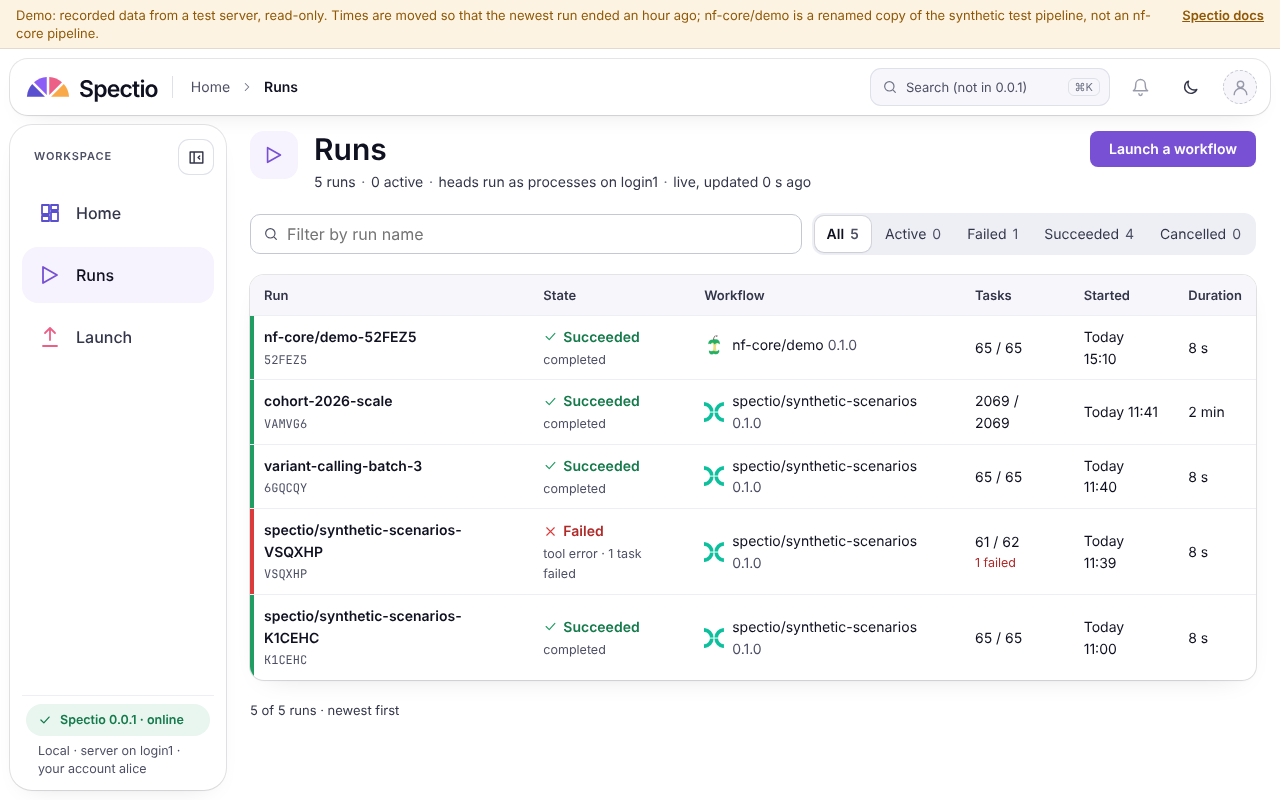
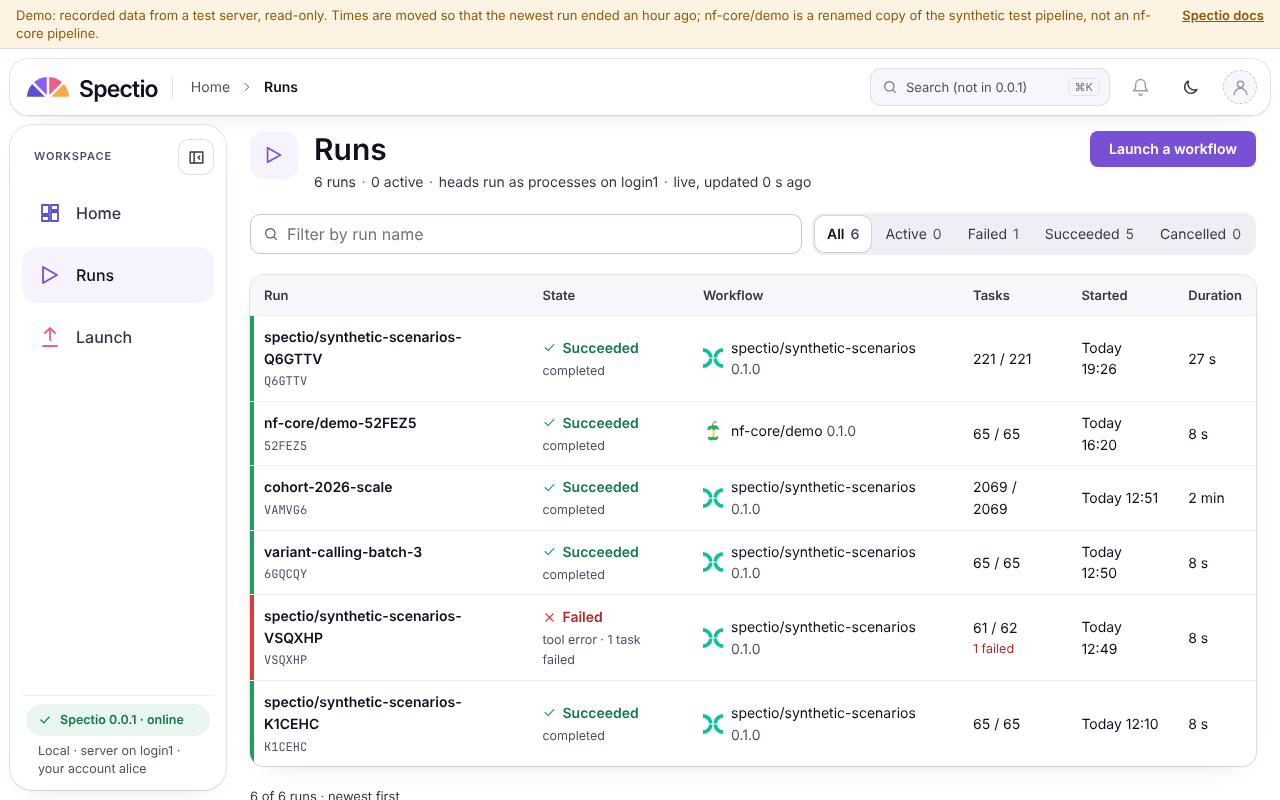
docs(P3-demo): refresh after UI parity D, review round 4, demo-runs retaken
P3-M4's Public demo section gets a dated "Refreshed after UI parity D"
paragraph (the merge, the new recording, the tests and the browser walk);
the review record gets the refresh round; the demo-runs shot is retaken
from the new build (six runs).

Claude-Session: https://claude.ai/code/session_01MF8RxLfMAXBpezLW6Efe78

diff --git a/docs/progress/W5/P3-M4.md b/docs/progress/W5/P3-M4.md
@@ -614,6 +614,31 @@ This list names the files.
 - **Decision log:** [2026-10-31 — a public read-only demo](../../decisions/log.md#2026-10-31-a-public-read-only-demo-of-the-001-screens-at-demo-written-into-dev-env-73-p3-demo).
 - **Docs of this step:** this section, the review record, the dev-env note, the decision-log entry, [inbox #92](../../reviews/inbox.md#92-assumed-what-the-public-demo-leaves-open-before-it-is-published), the `tools/media/README.md` corrections (the byte count, the kernel guard, the shot recipe), the "Try the demo" links in `mkdocs.yml` and `README.md`, the `demo-runs` shot (one `Shot` entry in `tools/media/shots.py`, one manifest entry), and the `p3-demo-static-demo` figure (`tools/diagrams/p3_demo_static_demo.py`, by `diagram-artist`, `6d92a7d`) with its manifest entry.
 
+**Refreshed after UI parity D (2026-10-31).** UI parity D (#112) was written after Thomas clicked through this PR's preview, so the branch was brought up to date and its recording taken again (the step's brief: "Update PR #111 so it merges cleanly onto the current `autopilot/integration` and shows the latest UI").
+
+- **The merge** (`c2a312c`): `origin/autopilot/integration` (`b9e6fbb`) merged into `autopilot/P3-demo-pub`, both sides kept. In `RunDetailPage.tsx` UI parity D's `LogViewer` now scrolls to the newest lines, and the demo keeps Open raw as a `blob:` URL. `shots.py` keeps UI parity D's searched `app-run-logs` and the `demo-runs` shot. `media.yaml`, the decision log and this page keep both entries. Both steps had named their follow-up FU-P3-28; UI parity D's is on `main`, so the demo's is now **FU-P3-29**.
+- **The recording** (`1959ca8`): `web/demo/fixtures.json` taken again with `record_demo.py` from the same demo server. It holds **48 answers, 931 286 bytes** (41 and 773 205 before; the budget is 1.5 MB). It has six runs: the five of the first recording, and UI parity D's `spectio/synthetic-scenarios-Q6GTTV` (221 tasks), launched with `chunks=6`, `scale=2`, `seed=7`, `fail_mode=flaky` and `fail_process=ALIGN`, so the Parameters tab shows values that are not the defaults. The inspections of `synthetic`, `synthetic-smk` and `nf-core-demo` now carry the four parameter groups of the synthetic pipelines' schemas. The hygiene check and the kernel-release cut passed. `test_record_demo.py` passes: 3 tests.
+- **The stub needed no change.** Every request UI parity D sends is a path the stub already filters and pages from the recorded lists: a process's tasks (`?process=…&limit=50`, then the `cursor`), the failed tasks that "Why it failed" looks through, `/runs?limit=50` for Try a test pipeline, and the inspect behind `/launch?location=`. So the recorder still records each list whole, and records no list per process. 10 new Vitest cases pin these requests. 9 are in `stub.test.ts`: some run on small lists made in the test, the others on the committed recording, where every process sheet of every run pages to its process's count. 1 is in `demo.test.tsx`: a hash link `#/launch?location=` loads `synthetic-smk`. One demo screen test was changed: Launch loads `nf-core-demo` with its four groups and still gives the read-only reason, so a pipeline with a schema is now tested (CR-P3DEMO-04 r1 asked for that test; the order of the reasons is still open).
+- **Evidence**, at `1959ca8`, from the worktree:
+
+    ```bash
+    cd web && npx vitest run      # 20 files, 203 tests passed (193 after the merge; 175 + 18)
+    cd web && npx tsc --noEmit    # exit 0
+    npm --prefix web run build    # dist: 6 files, none of the demo (9 needles)
+    npm --prefix web run build:demo   # web/dist-demo; demo chunk 995 kB, Vite's 500 kB warning (CR-P3DEMO-05 r1, open)
+    bash tools/ci/security.sh sast    # Ran 79 rules on 213 files: 0 findings.
+    ```
+
+    The browser walk of the built demo, served under `/demo/` by `python3 -m http.server` (Playwright, Chromium, 1440 × 1000), found **no console error and no request off the origin**. Every step of the walk passed:
+    - Home, then Runs, where six runs are listed;
+    - the run Q6GTTV, Open process ALIGN: the sheet lists 50 of its 144 tasks, and Load more shows 100;
+    - Open in Tasks goes to `?tab=tasks&process=ALIGN`, and Parameters shows `flaky`;
+    - the failed run, Logs, Head output, a search for "MERGE": the counter reads `1 / 4`;
+    - Launch, Try a test pipeline, `synthetic`: the four groups are shown, and Launch is `aria-disabled` with the description "Read-only demo: launching and cancelling are disabled";
+    - `#/launch?location=…/nf-core-demo` loads it with its groups.
+
+    The `demo-runs` shot was retaken from that build (six runs; hygiene ok).
+
 #### Differences from the brief and the spec (P3-demo)
 
 | Brief or spec | Code | Why |

diff --git a/docs/reviews/code/P3-demo.md b/docs/reviews/code/P3-demo.md
@@ -70,3 +70,50 @@ The counts add up the three rounds of each reviewer. The one `simplify` finding 
 | CR-P3DEMO-07 (r3) | minor | Same gap as CR-P3DEMO-04 (r2). | **open**: FU-P3-29 |
 | SEC-P3DEMO-03 (r3) | minor | Same gap as SEC-P3DEMO-05 (r2), with the published URLs named. | **open**: FU-P3-29 |
 | SEC-P3DEMO-04 (r3) | minor | The engine logs still describe the sandbox: the Ubuntu 24.04 JDK build, `CPUs: 4 - Mem: 13.4 GB`, and the locale. No credential, no internal host name: hardening only. | **open**: FU-P3-29 |
+
+## Refresh round after UI parity D (2026-10-31)
+
+The branch `autopilot/P3-demo-pub` (PR #111) was brought up to date with `autopilot/integration` after UI parity D (#112). The merge is `c2a312c` and the new recording is `1959ca8`; [P3-M4 · Public demo](../../progress/W5/P3-M4.md#public-demo-p3-demo) has the numbers. The round reviews the diff `c2a312c..1959ca8`:
+
+- `web/demo/fixtures.json`: 48 answers, 931 286 bytes, six runs;
+- `web/src/demo/stub.test.ts`: 9 new cases;
+- `web/src/demo/demo.test.tsx`: 1 new case and 1 changed case;
+- `tools/media/README.md`: the recipe's numbers and its sixth run.
+
+`stub.ts` and `record_demo.py` are unchanged.
+
+**How it was reviewed.** The session that did the refresh had no tool to start subagents. So the two passes were made in that session, one after the other, against `.claude/agents/code-reviewer.md` and `.claude/agents/security-reviewer.md`. They are **not independent**. For the security pass, the decoded bodies of every answer were searched for:
+
+- host names other than `login1` and `localhost`;
+- paths outside `/g/demo-lab`, and `/home/`, `/tmp/`, `/opt/`, `/usr/`, `site-packages`, `.venv`;
+- e-mail addresses, IP addresses, `PATH=` and `HOME=`;
+- `token`, `password`, `Bearer`, and the kernel release.
+
+The only matches were the `nf-…@version` plugin names, the JDK version, the account `alice`, and the Nextflow secrets store path `/g/demo-lab/.nextflow/secrets/store.json` (a path, no content). Thomas may ask for an independent pass before he merges.
+
+| Round | Head | code-reviewer | security-reviewer |
+|---|---|---|---|
+| 4 (refresh) | `1959ca8` | **approve** (3 minors), not independent | **approve** (1 minor), not independent |
+
+| Id | Severity | Finding | Status |
+|---|---|---|---|
+| CR-P3DEMO-01 (r4) | minor | The recording's tests name what this recording holds: at least six runs, the failed run's ID, and a run with `fail_mode=flaky` and `chunks=6`. A recording taken again without that run fails them. | accepted: they check that the demo still covers the parameters and the process sheets; `tools/media/README.md` names the runs to launch |
+| CR-P3DEMO-02 (r4) | minor | The demo chunk grew from about 830 kB to 995 kB with the recording. | **open**: CR-P3DEMO-05 (r1), FU-P3-29 |
+| CR-P3DEMO-03 (r4) | minor | `stub.ts` needed no new path: UI parity D's requests are the filters and pages it already served. The change is tests only, and they would fail if the filtering or paging broke. | no action |
+| SEC-P3DEMO-01 (r4) | minor | The new run adds two more engine logs with the JDK build, `CPUs`, `Mem` and `Encoding` lines. | **open**: SEC-P3DEMO-04 (r3), FU-P3-29 |
+
+Gate at `1959ca8`:
+
+```bash
+cd web && npx vitest run      # 20 files, 203 tests passed
+cd web && npx tsc --noEmit    # exit 0
+npm --prefix web run build    # dist: 6 files, none of the demo (9 needles)
+npm --prefix web run build:demo
+uv run pytest -q              # 511 passed, 15 deselected
+python3 -m unittest tools/media/test_record_demo.py   # Ran 3 tests, OK
+bash tools/ci/security.sh sast                        # 0 findings
+```
+
+```text
+CODE  step=P3-demo-refresh  review=approve b/M/m=0/0/3  security=approve b/M/m=0/0/1  rounds=1  simplify=none  tests=pass
+```
